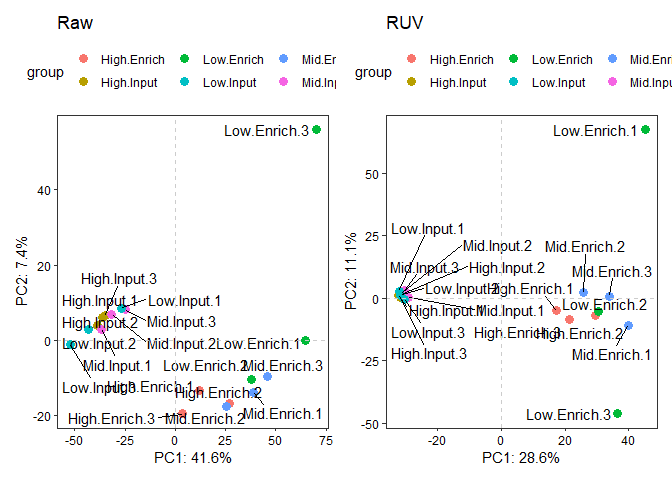
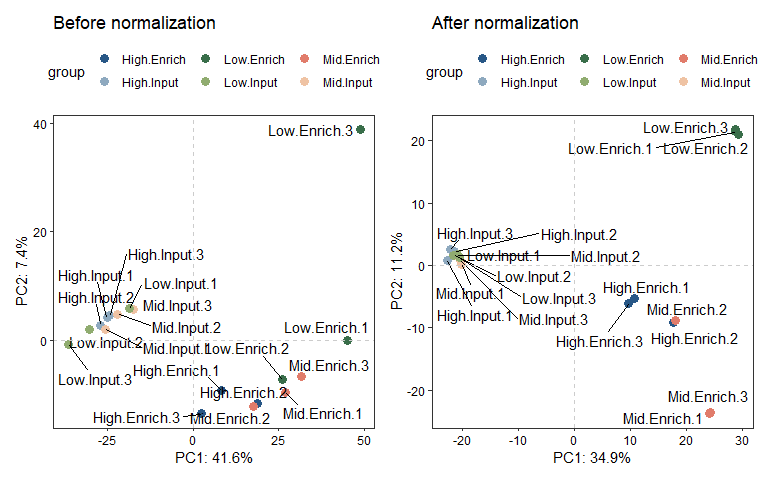
enONE return geneset

diff --git a/README.md b/README.md
@@ -6,13 +6,16 @@
 <!-- badges: start -->
 <!-- badges: end -->
 
-The goal of `enRUVseq` is to perform normalization on RNA-seq including enrichment (NAD-RNA-seq) using spike-in. 
+The goal of `enRUVseq` is to perform normalization on RNA-seq including
+enrichment (NAD-RNA-seq) using spike-in.
 
-The main functions for normalizing enrichment variation between samples were inspired by [RUVSeq](https://github.com/drisso/RUVSeq).
+The main functions for normalizing enrichment variation between samples
+were inspired by [RUVSeq](https://github.com/drisso/RUVSeq).
 
 ## Installation
 
-You can install the development version of enRUVseq from [GitHub](https://github.com/) with:
+You can install the development version of enRUVseq from
+[GitHub](https://github.com/) with:
 
 ``` r
 # install.packages("devtools")
@@ -93,10 +96,20 @@ ONE_obj <- enONE(counts_keep, group = meta$condition, spike.in.prefix = '^FB',
 
 ``` r
 names(ONE_obj)
-#> [1] "norm.data.ls"    "norm.assessment"
+#> [1] "gene.set"        "norm.data.ls"    "norm.assessment"
 ```
 
-performance of normalization
+`enONE` return three list,
+
+-   `gene.set` contains the gene id of negative control genes (for
+    normalization) and positive and negative evaluation genes (for
+    assessment).
+
+-   `norm.data.ls` contains all the normalized data.
+
+-   `norm.assessment` contains the normalization assessment results.
+
+check the performance of normalization
 
 ``` r
 ONE_obj$norm.assessment$performance
@@ -211,10 +224,24 @@ best.norm
 #> [1] "DESeq_RUVs_k3"
 ```
 
-### DE
+### Effect of normalization
+
+we use PCA to visualize the counts from non-spike-in samples before and
+after the normalization.
 
 ``` r
 counts_nsp <- counts_keep[grep(spikeInPrefix, rownames(counts_keep), invert = TRUE), ]
+samples_name <- paste(meta$condition, meta$replicate, sep='.')
+p1 <- ggPCA(log1p(counts_nsp), labels = samples_name, vst.norm = FALSE) + ggtitle('Before normalization')
+p2 <- ggPCA(log1p(best.norm.data$dataNorm), labels = samples_name, vst.norm = FALSE) + ggtitle('After normalization')
+p1 + p2
+```
+
+<img src="man/figures/README-unnamed-chunk-11-1.png" width="100%" />
+
+### DE
+
+``` r
 contrast_df <- data.frame(Group1 = unique(grep("Enrich", meta$condition, value = TRUE)),
                           Group2 = unique(grep("Input", meta$condition, value = TRUE)))
 de.best.norm <- edgeRDE(counts_nsp[!rownames(counts_nsp) %in% c('Syn1', 'Syn2'),],
@@ -233,4 +260,4 @@ bxp1 <- BetweenStatPlot(nad_df1, x='Group', y='logFC', color='Group') + ggtitle(
 bxp1
 ```
 
-<img src="man/figures/README-unnamed-chunk-12-1.png" width="100%" />
+<img src="man/figures/README-unnamed-chunk-13-1.png" width="100%" />
